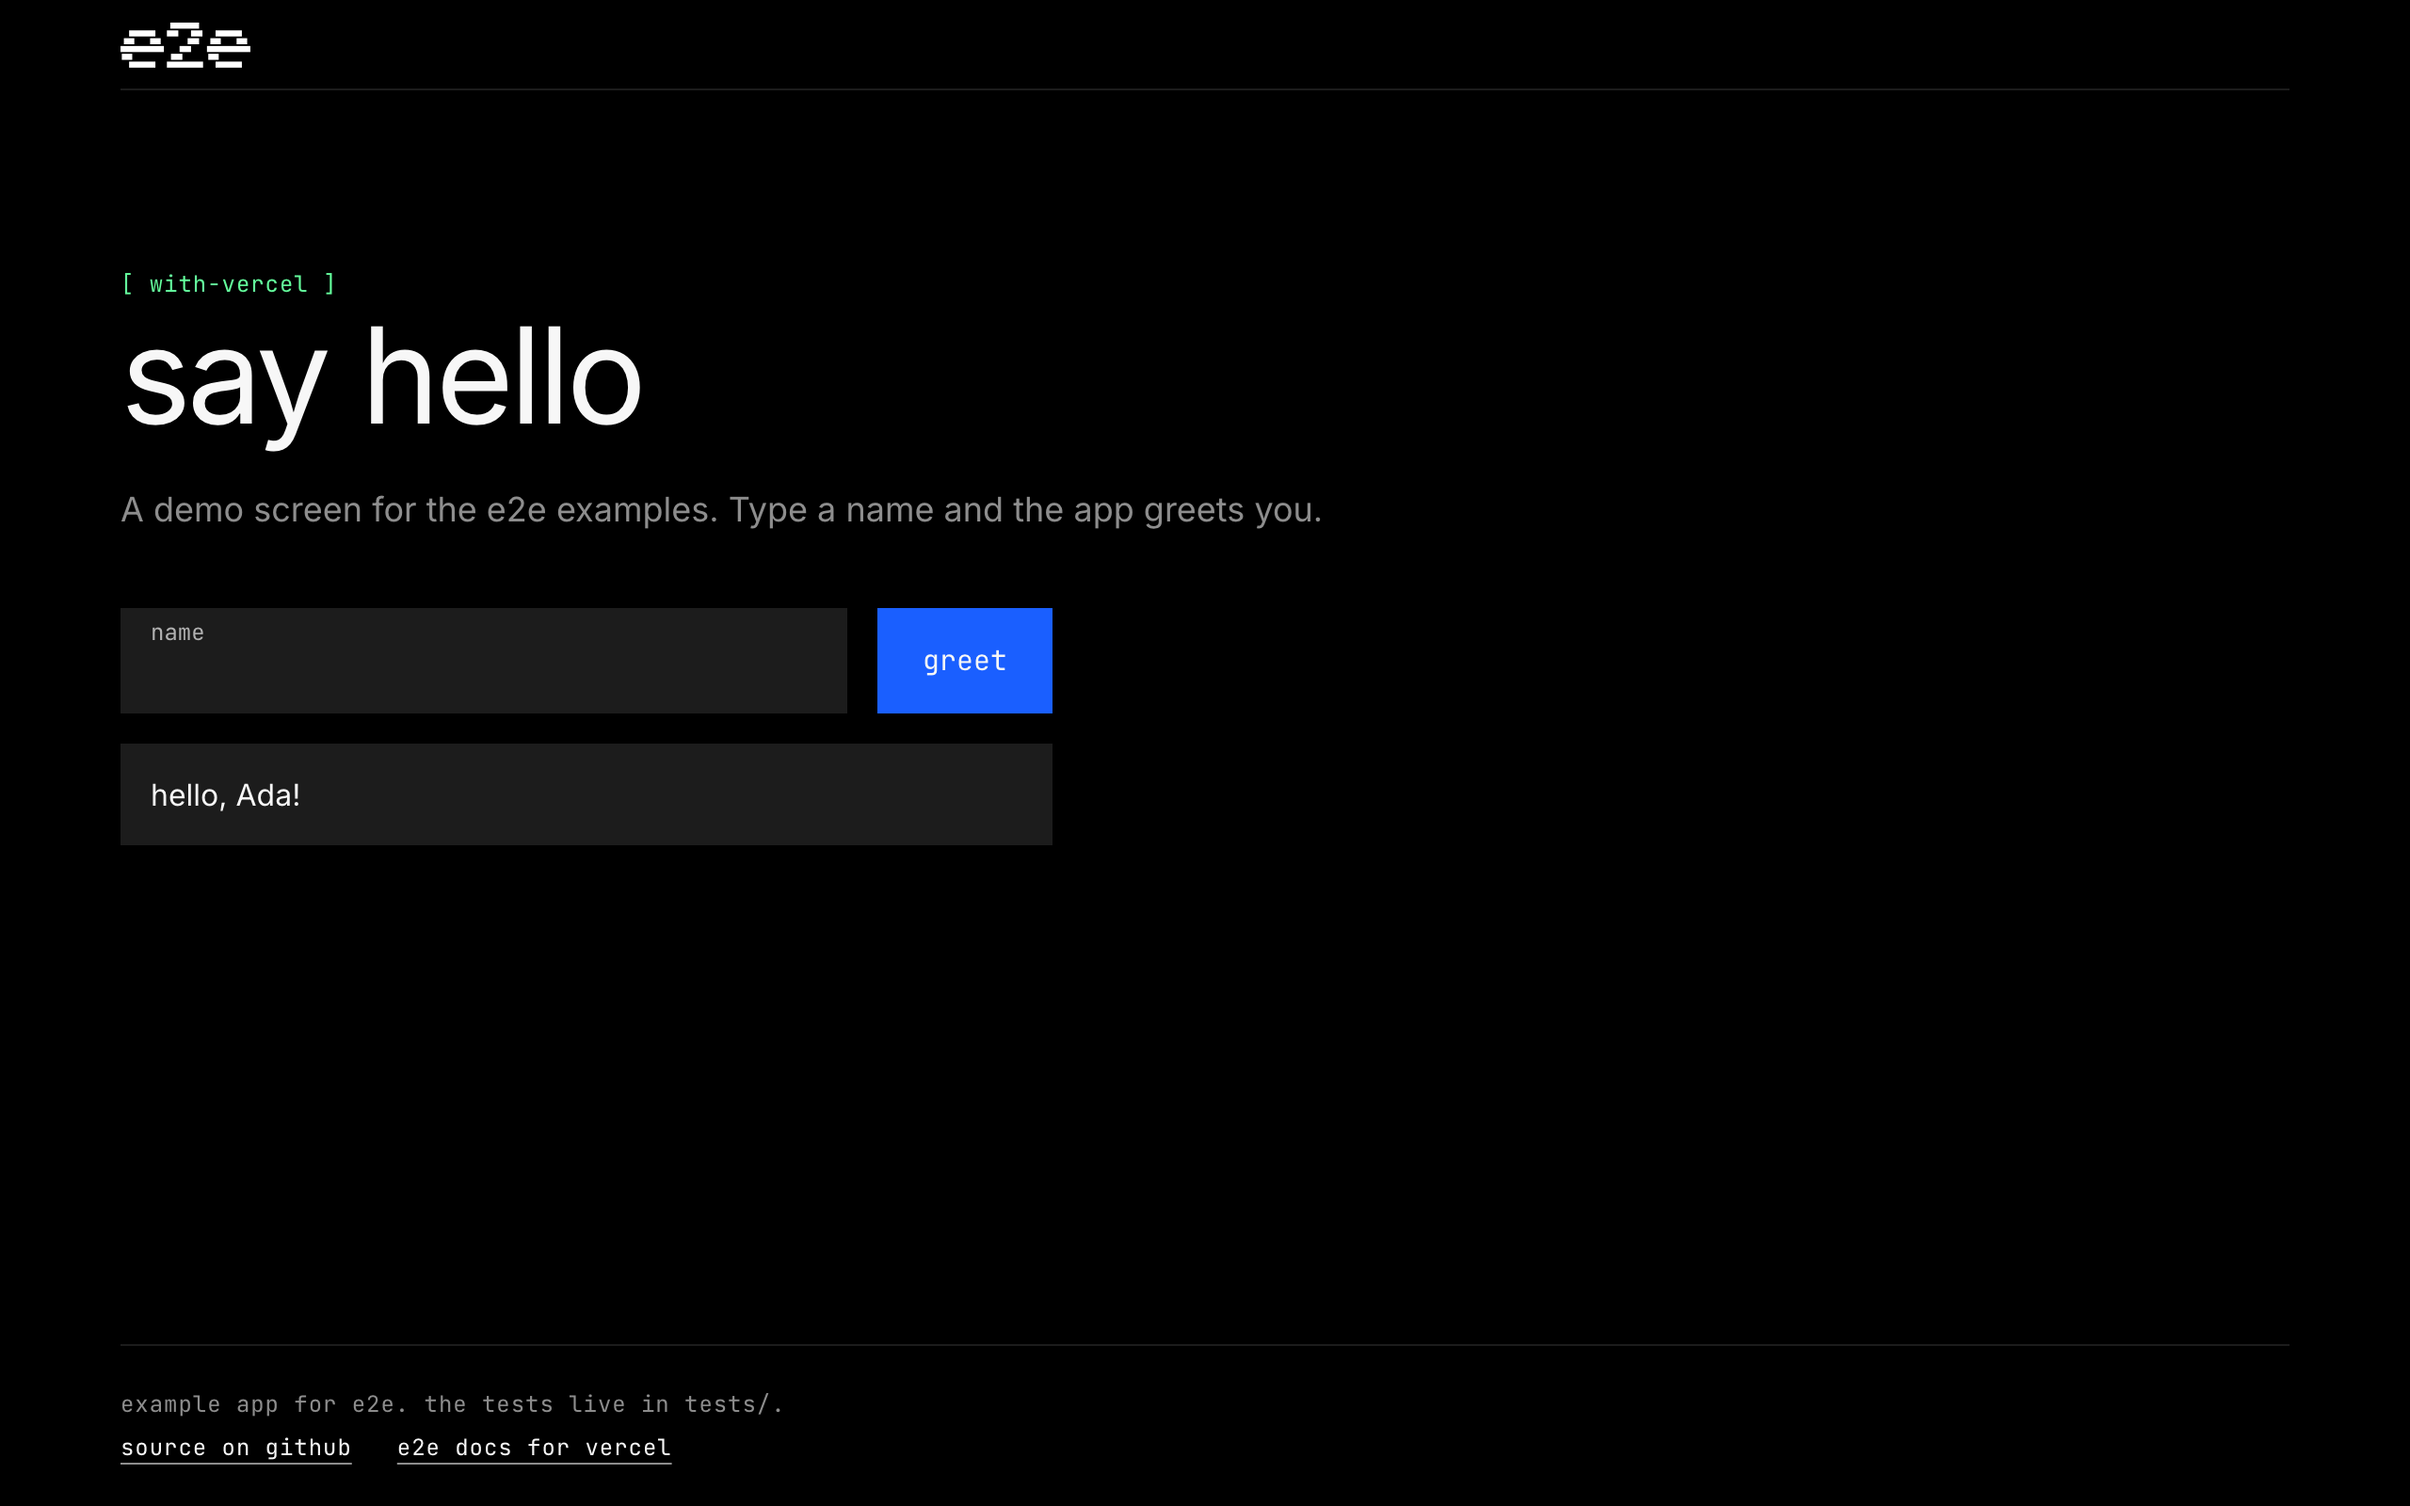
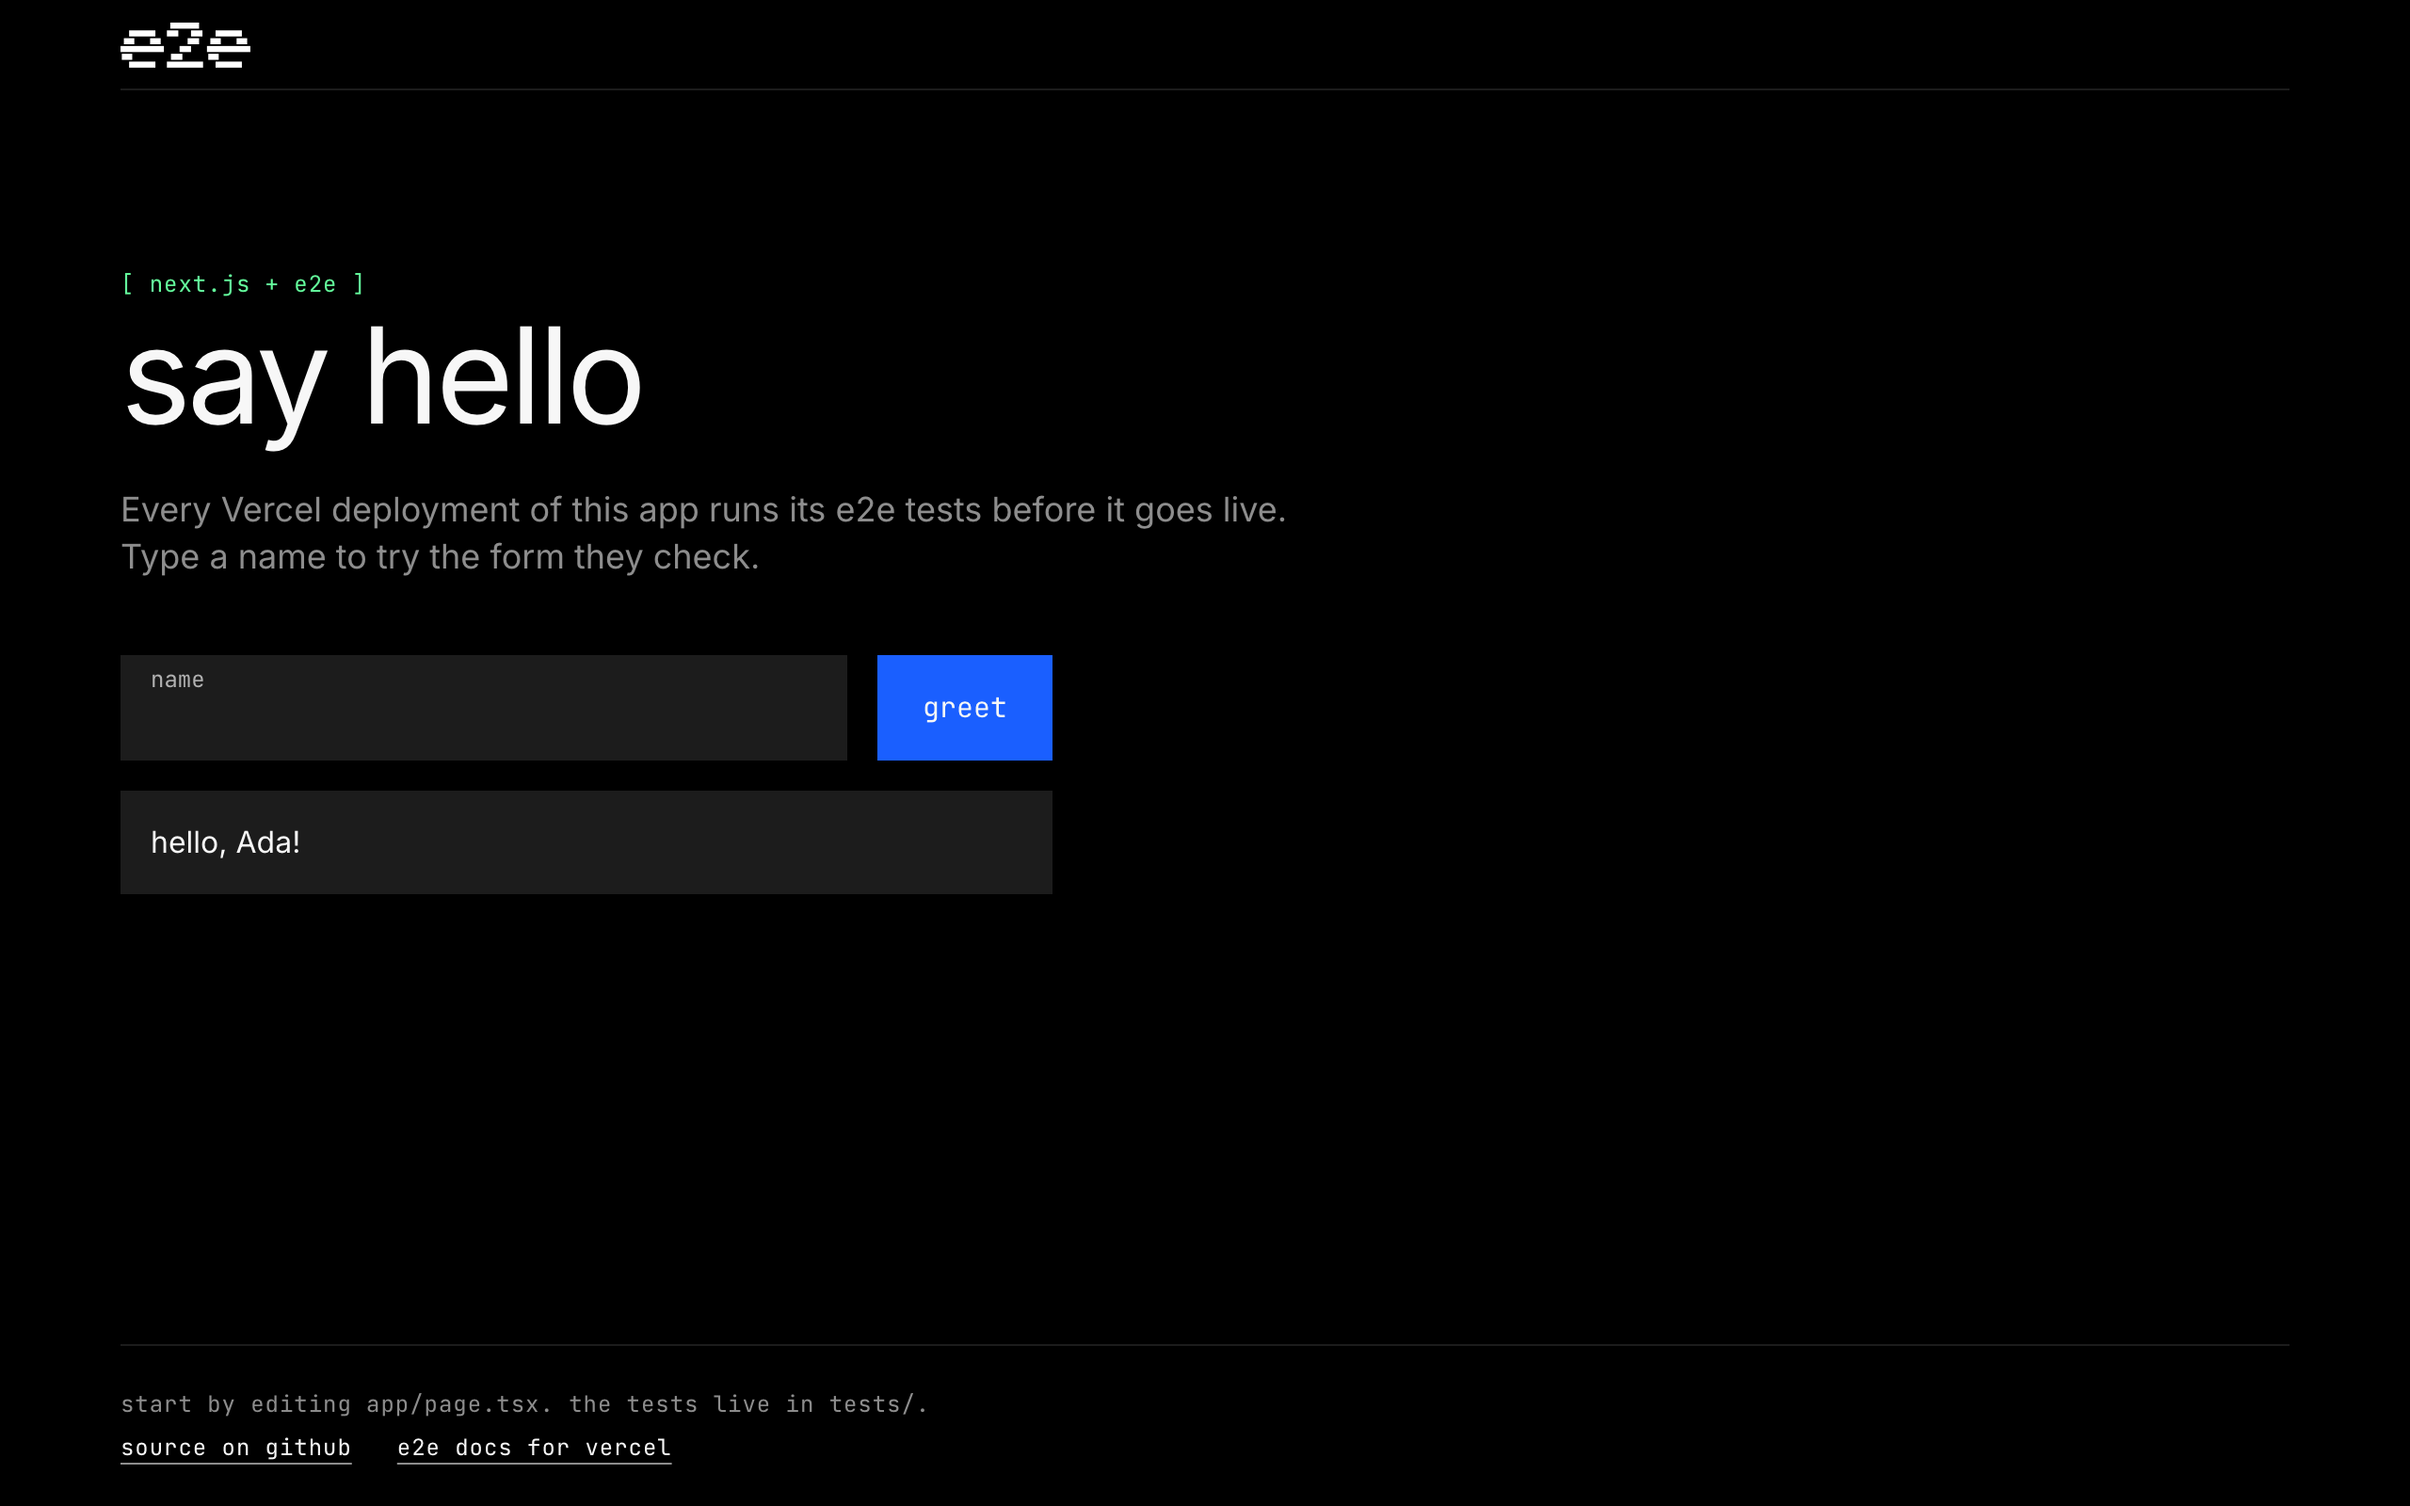
Present the app as a starter rather than a demo (#6)
Vercel turns down template submissions that read as demos. After #5, the
page still called itself "a demo screen for the e2e examples" and
"example app for e2e".

- Page: the eyebrow is now `[ next.js + e2e ]`, the intro explains that
every Vercel deployment runs its e2e tests before going live, and the
footer points to `app/page.tsx` as the place to start.
- `@types/node` goes from `^20` to `^22` to match the Node versions in
the README.
- `screenshot.png` is refreshed with the new copy.

The heading, label, button, and greeting are unchanged, so the tests and
the replay cache still match. Typecheck, lint, build, and the locator
tests pass locally. The agent tests were skipped because no AI Gateway
key was set.

ENG-1361

<!-- This is an auto-generated description by cubic. -->
<a
href="https://cubic.dev/pr/e2e-inc/e2e-vercel-previews/pull/6?utm_source=github"
target="_blank" rel="noopener noreferrer"
data-no-image-dialog="true"><picture><source
media="(prefers-color-scheme: dark)"
srcset="https://www.cubic.dev/buttons/review-in-cubic-dark.svg"><source
media="(prefers-color-scheme: light)"
srcset="https://www.cubic.dev/buttons/review-in-cubic-light.svg"><img
alt="View guided diff"
src="https://www.cubic.dev/buttons/review-in-cubic-light.svg"></picture></a>
<a
href="https://www.cubic.dev/action/auto-fix/pr/e2e-inc/e2e-vercel-previews/6?returnTo=https%3A%2F%2Fgithub.com%2Fe2e-inc%2Fe2e-vercel-previews%2Fpull%2F6&source=description"
target="_blank" rel="noopener noreferrer"
[…]

diff --git a/app/page.tsx b/app/page.tsx
@@ -9,14 +9,17 @@ export default function Home() {
       </header>
 
       <main className="hero">
-        <p className="eyebrow">[ with-vercel ]</p>
+        <p className="eyebrow">[ next.js + e2e ]</p>
         <h1 className="title">say hello</h1>
-        <p className="lede">A demo screen for the e2e examples. Type a name and the app greets you.</p>
+        <p className="lede">
+          Every Vercel deployment of this app runs its e2e tests before it goes live. Type a name to try the form
+          they check.
+        </p>
         <GreetingForm />
       </main>
 
       <footer className="footer">
-        <p>example app for e2e. the tests live in tests/.</p>
+        <p>start by editing app/page.tsx. the tests live in tests/.</p>
         <nav className="footer-links" aria-label="resources">
           <a href="https://github.com/e2e-inc/e2e-vercel-previews">source on github</a>
           <a href="https://e2e.com/docs/ci/vercel">e2e docs for vercel</a>
